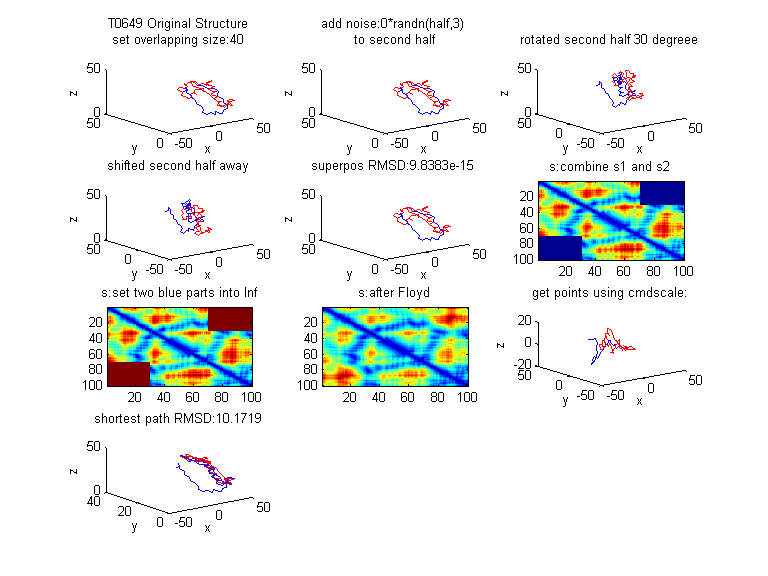
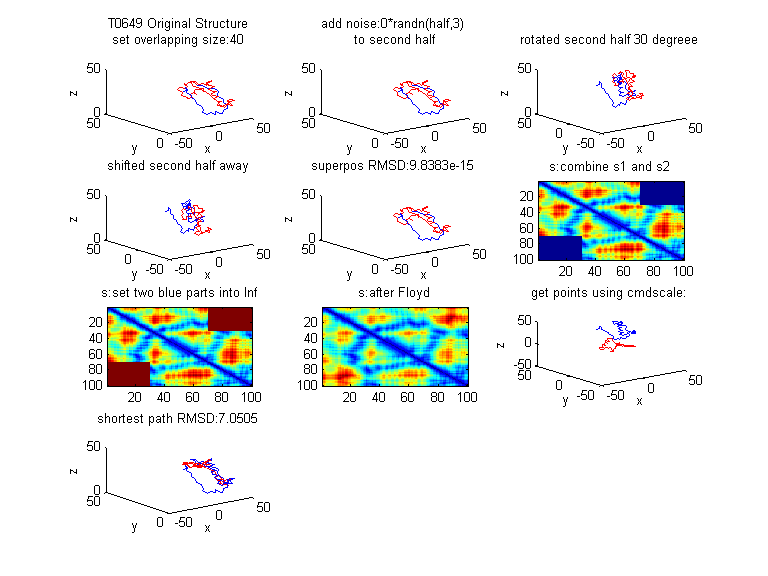
update 10/30/2014
Should use the whole structure, p, to superimpose onto the whole
original. Then, calculate the RMSD.

diff --git a/experimentMethods.m b/experimentMethods.m
@@ -138,7 +138,7 @@ zlabel('z')
 
 
 
-[~,~,transform] = procrustes(firstHalfOrigin(half-overlappingSize+1:half,:),secondHalfFromCmdscale(1:overlappingSize,:),'scaling',false);
+[~,~,transform] = procrustes(coords,p,'scaling',false);
 
 c = transform.c;
 T = transform.T;
@@ -155,7 +155,7 @@ xlabel('x')
 ylabel('y')
 zlabel('z')
 
-%   set(gcf,'PaperType','usletter')
-%   print('-dpng','-r0',strcat(proteinName,'Alpha',num2str(alpha),'OverlappingSize',num2str(overlappingSize)))
+  set(gcf,'PaperType','usletter')
+  print('-dpng','-r0',strcat(proteinName,'Alpha',num2str(alpha),'OverlappingSize',num2str(overlappingSize)))
 
   end

diff --git a/singleRunner.m b/singleRunner.m
@@ -153,7 +153,7 @@ zlabel('z')
 
 
 
-[~,~,transform] = procrustes(firstHalfOrigin(half-overlappingSize+1:half,:),secondHalfFromCmdscale(1:overlappingSize,:),'scaling',false);
+[~,~,transform] = procrustes(coords,p,'scaling',false);
 
 c = transform.c;
 T = transform.T;
